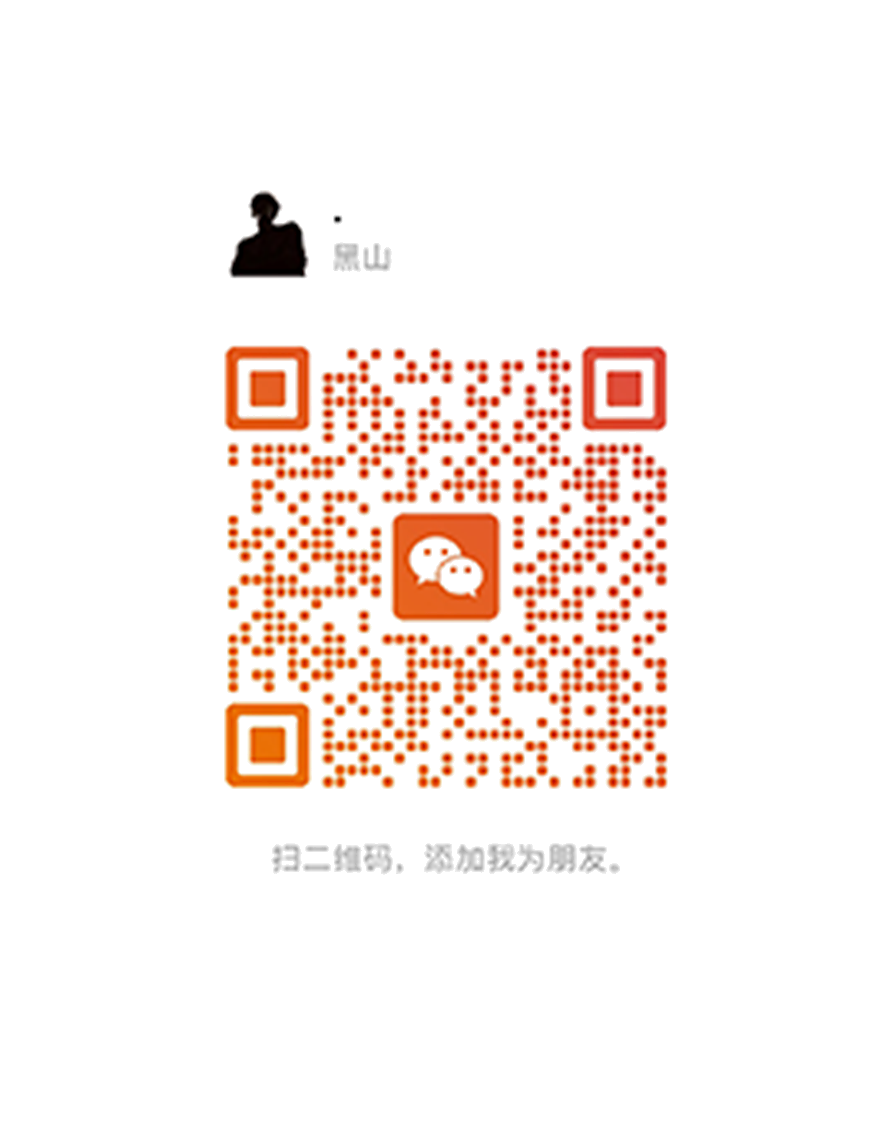
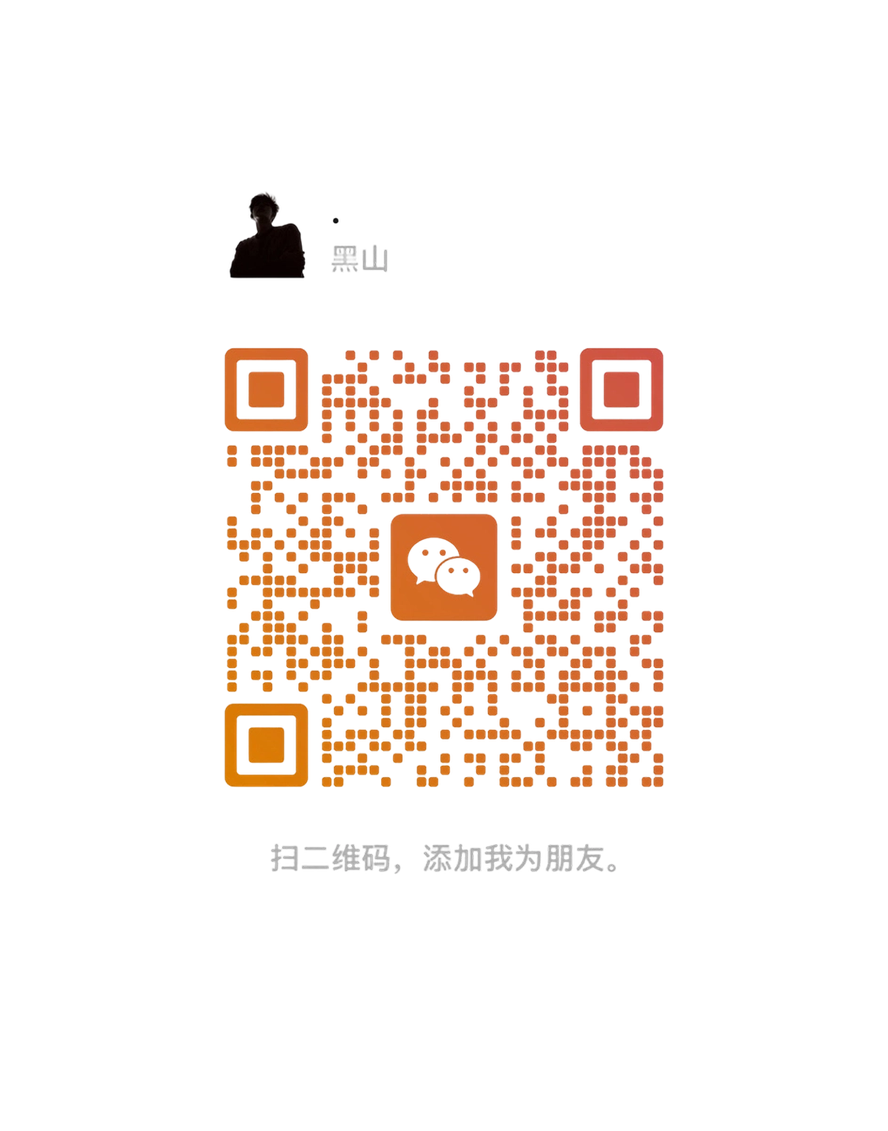
Replace lanyard QR and boost rebound

Changed region(s): [[0.2432, 0.2785, 0.7601, 0.7118], [0.3041, 0.7427, 0.6993, 0.7737], [0.2432, 0.1547, 0.4561, 0.2476]]

diff --git a/lanyard-scene.js b/lanyard-scene.js
@@ -84,7 +84,7 @@ function returnToFirstPage(delay = 0) {
         const previousScrollBehavior = root.style.scrollBehavior;
         const previousScrollSnapType = root.style.scrollSnapType;
         const startY = window.scrollY;
-        const duration = 500;
+        const duration = 460;
         const startTime = performance.now();
         const easeOutQuint = t => 1 - Math.pow(1 - t, 5);
 
@@ -349,11 +349,11 @@ function Band({ maxSpeed = 50, minSpeed = 0, isMobile = false, cardUrl, textureU
                                 requestAnimationFrame(() => {
                                     requestAnimationFrame(() => {
                                         card.current?.wakeUp();
-                                        card.current?.setLinvel?.({ x: 0, y: 36, z: 0 }, true);
-                                        card.current?.setAngvel?.({ x: -7.5, y: 1.3, z: 2.4 }, true);
+                                        card.current?.setLinvel?.({ x: 0, y: 58, z: 0 }, true);
+                                        card.current?.setAngvel?.({ x: -10.5, y: 1.8, z: 3.2 }, true);
                                     });
                                 });
-                                returnToFirstPage(280);
+                                returnToFirstPage(360);
                             }
                         },
                         onPointerDown: event => {

diff --git a/index.html b/index.html
@@ -1699,13 +1699,13 @@
 
     <div class="page4" id="page4">
         <div class="lanyard-stage">
-            <div id="lanyard-root" data-card="./card.glb" data-lanyard="./lanyard.png?v=20260517-8" data-card-face="./card-face.png?v=20260517-8"></div>
+            <div id="lanyard-root" data-card="./card.glb" data-lanyard="./lanyard.png?v=20260517-8" data-card-face="./card-face.png?v=20260518-1"></div>
             <div class="lanyard-drag-hint" aria-hidden="true">拖拽它！</div>
             <div class="lanyard-mobile-fallback" aria-hidden="true">
                 <div class="lanyard-mobile-strap"></div>
                 <div class="lanyard-mobile-clip"></div>
                 <div class="lanyard-mobile-card">
-                    <img data-src="./card-face.png?v=20260517-8" alt="">
+                    <img data-src="./card-face.png?v=20260518-1" alt="">
                 </div>
             </div>
         </div>
@@ -2696,6 +2696,6 @@
         }
     }
     </script>
-    <script type="module" src="./lanyard-island.js?v=20260517-9"></script>
+    <script type="module" src="./lanyard-island.js?v=20260518-1"></script>
 </body>
 </html>

diff --git a/lanyard-island.js b/lanyard-island.js
@@ -23,7 +23,7 @@ function pageIsActive() {
 
 function warmSceneModule() {
     if (!mount || sceneModulePromise) return sceneModulePromise;
-    sceneModulePromise = import("./lanyard-scene.js?v=20260517-8").catch(error => {
+    sceneModulePromise = import("./lanyard-scene.js?v=20260518-1").catch(error => {
         sceneModulePromise = null;
         throw error;
     });
